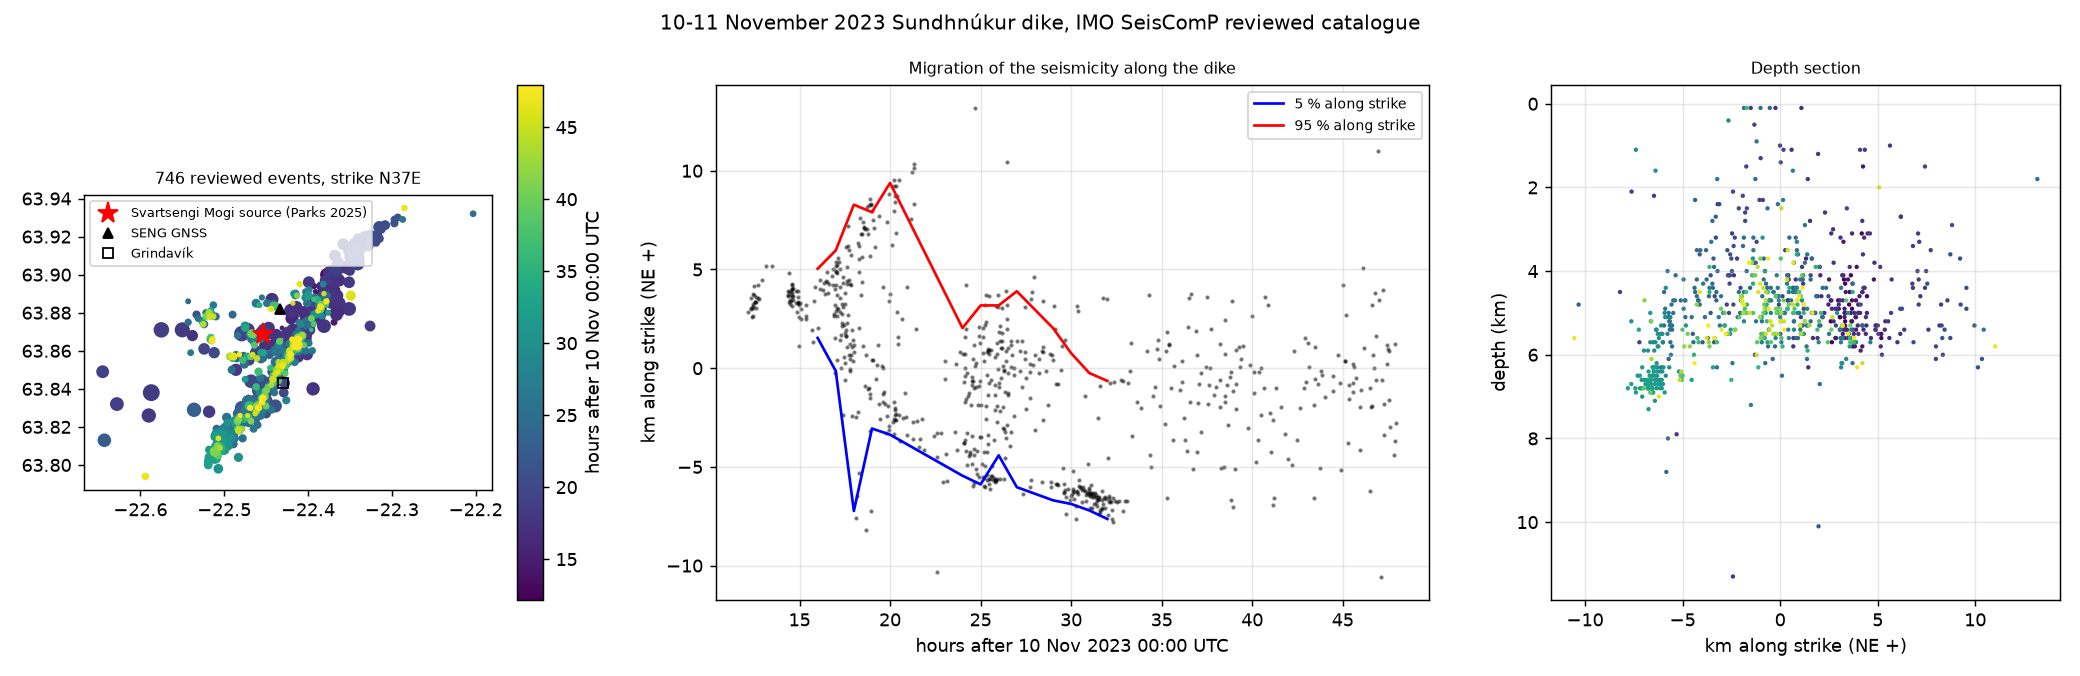
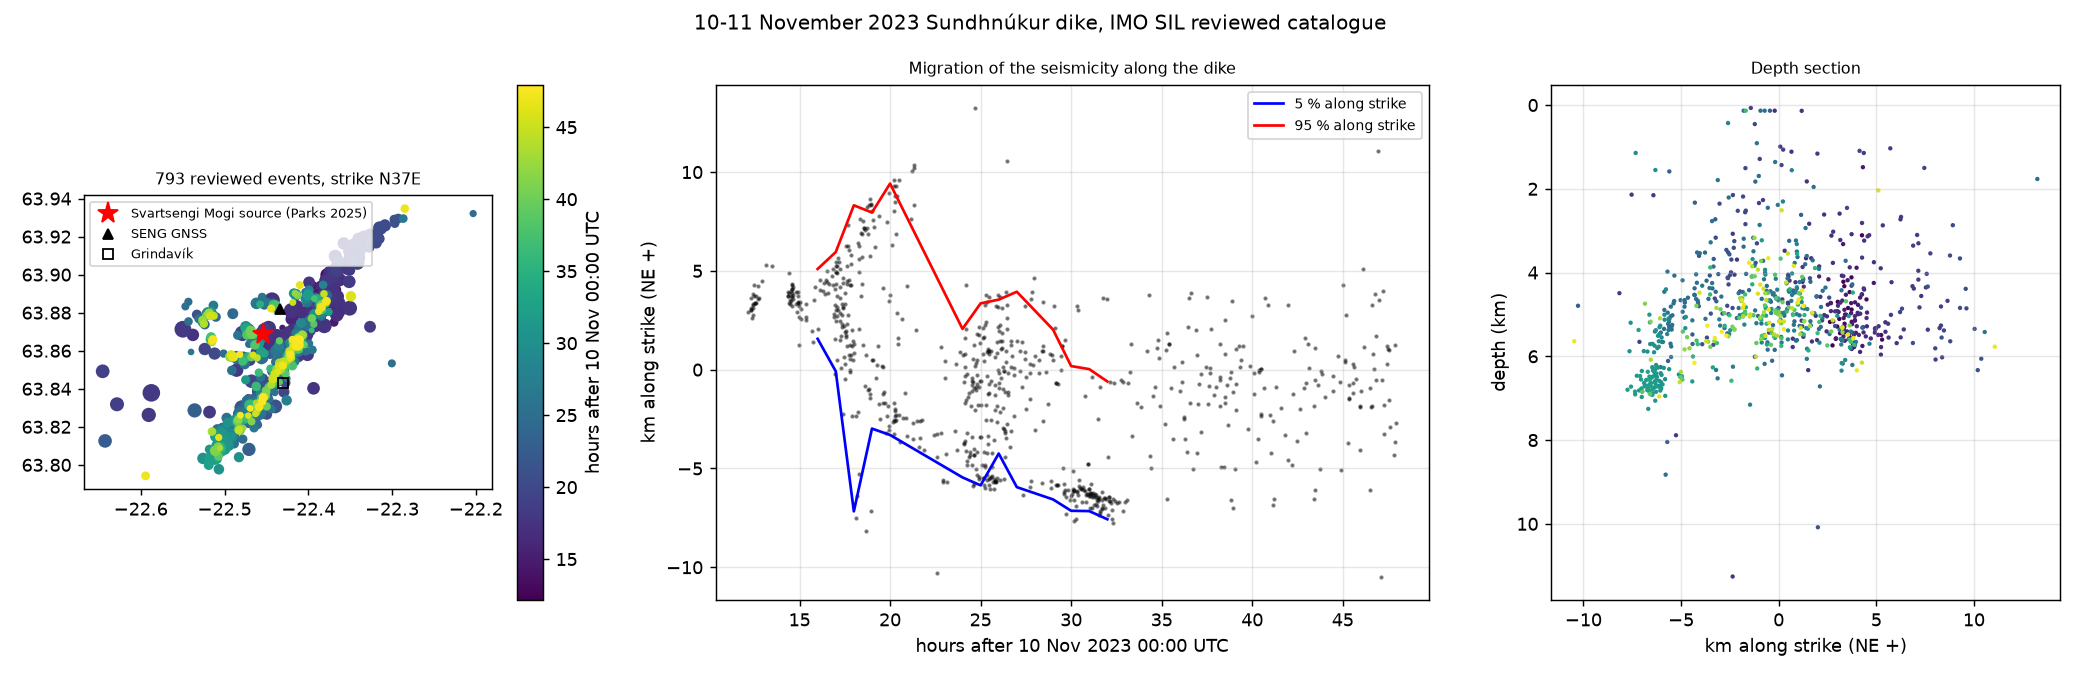
Use SeisComP for 2023-2026 and SIL for the 2023 dike; compare the two magnitude scales

diff --git a/scripts/reykjanes_seismicity.py b/scripts/reykjanes_seismicity.py
@@ -37,8 +37,9 @@ def inbox(df, b):
     return df[(df.longitude >= b[0]) & (df.longitude <= b[2]) & (df.latitude >= b[1]) & (df.latitude <= b[3])]
 
 
-def load(path):
-    d = pd.read_csv(path)
+def load(paths):
+    d = pd.concat([pd.read_csv(p) for p in paths], ignore_index=True).drop_duplicates("event_id")
+    path = "+".join(Path(p).name for p in paths)
     d["time"] = pd.to_datetime(d["time"], utc=True, format="ISO8601").dt.tz_localize(None)
     n0 = len(d)
     d = d[d.evaluation_mode == "manual"]
@@ -49,6 +50,24 @@ def load(path):
     return d
 
 
+def compare_systems(sil, sc, tol_s=3.0, tol_km=3.0):
+    """Match SIL and SeisComP reviewed events in their common period; counts per month and magnitude offset."""
+    t0, t1 = max(sil.time.min(), sc.time.min()), min(sil.time.max(), sc.time.max())
+    a = sil[(sil.time >= t0) & (sil.time <= t1)].sort_values("time").reset_index(drop=True)
+    b = sc[(sc.time >= t0) & (sc.time <= t1)].sort_values("time").reset_index(drop=True)
+    m = pd.merge_asof(b, a[["time", "latitude", "longitude", "magnitude"]].rename(
+        columns={"latitude": "lat_sil", "longitude": "lon_sil", "magnitude": "m_sil"}).assign(t_sil=lambda d: d.time),
+        on="time", direction="nearest", tolerance=pd.Timedelta(seconds=tol_s))
+    m = m.dropna(subset=["m_sil"])
+    m = m[sl.haversine_km(m.latitude, m.longitude, m.lat_sil, m.lon_sil) <= tol_km]
+    dm = m.magnitude - m.m_sil
+    out = dict(period=f"{t0.date()}..{t1.date()}", n_sil=len(a), n_seiscomp=len(b), n_matched=len(m),
+               dm_median=float(dm.median()), dm_iqr=[float(dm.quantile(.25)), float(dm.quantile(.75))],
+               dm_median_m_ge_1=float(dm[m.m_sil >= 1].median()))
+    print("SIL vs SeisComP:", out)
+    (DATA / "sil_vs_seiscomp.json").write_text(json.dumps(out, indent=1))
+
+
 def stats_block(name, m_timeordered, dm=0.1, rng=0):
     m = np.asarray(m_timeordered)
     out = dict(set=name, n_all=int(m.size))
@@ -57,7 +76,10 @@ def stats_block(name, m_timeordered, dm=0.1, rng=0):
     maxc = sl.mc_maxc(m, dm, 0.2)
     gft, r = sl.mc_gft(m, dm)
     mbs = sl.mc_mbs(m, dm)
-    mc = float(np.nanmax([maxc, gft, mbs]))  # conservative choice
+    # conservative of MAXC+0.2 and GFT; MBS is reported but not used when it rests on < 200 events
+    mc = float(np.nanmax([maxc, gft]))
+    if np.isfinite(mbs) and (sl.bin_mag(m) >= mbs - dm / 2).sum() >= 200:
+        mc = max(mc, float(mbs))
     b, sb, n, a = sl.b_aki(m, mc, dm)
     bb = sl.b_bootstrap(m, mc, dm, 500, rng)
     bp, sbp, nbp = sl.b_positive(m, dm, 0.2)
@@ -68,16 +90,22 @@ def stats_block(name, m_timeordered, dm=0.1, rng=0):
 
 def main():
     ap = argparse.ArgumentParser()
-    ap.add_argument("--catalog", required=True)
-    ap.add_argument("--label", default="IMO SIL")
+    ap.add_argument("--catalog", required=True, nargs="+", help="one or more CSVs (deduplicated by event_id)")
+    ap.add_argument("--label", default="IMO SeisComP")
+    ap.add_argument("--sil", nargs="*", default=[],
+                    help="IMO SIL CSVs: used for the Nov 2023 dike, 2020-2023 and a SIL-vs-SeisComP check")
     a = ap.parse_args()
     cat = load(a.catalog)
+    sil = load(a.sil) if a.sil else cat
+    sil_label = "IMO SIL" if a.sil else a.label
+    if a.sil:
+        compare_systems(sil, cat)
     ev = load_events()
     sv = inbox(cat, SVARTSENGI_BOX).reset_index(drop=True)
 
     # ------------------------------------------------------------------ 1. dike of 10 Nov 2023
     t0, t1 = pd.Timestamp("2023-11-10 12:00"), pd.Timestamp("2023-11-12 00:00")
-    dk = inbox(cat, (-22.65, 63.75, -22.20, 63.95))
+    dk = inbox(sil, (-22.65, 63.75, -22.20, 63.95))
     dk = dk[(dk.time >= t0) & (dk.time < t1)].reset_index(drop=True)
     x, y = to_local_km(dk.longitude, dk.latitude, PARKS_SOURCE["lon"], PARKS_SOURCE["lat"])
     xy = np.c_[x, y]
@@ -138,7 +166,7 @@ def main():
     axs[2].set_ylabel("depth (km)")
     axs[2].set_title("Depth section", fontsize=9)
     axs[2].grid(alpha=.3)
-    fig.suptitle(f"10-11 November 2023 Sundhnúkur dike, {a.label} reviewed catalogue", fontsize=11)
+    fig.suptitle(f"10-11 November 2023 Sundhnúkur dike, {sil_label} reviewed catalogue", fontsize=11)
     fig.tight_layout()
     fig.savefig(IMG / "dike_2023-11-10.png", dpi=130)
 
@@ -155,7 +183,7 @@ def main():
     for i in range(len(ev) - 1 + 1):
         e = ev.iloc[i]
         start = (e.end if e.end > e.start else e.start) + pd.Timedelta(days=2)
-        end = ev.iloc[i + 1].start - pd.Timedelta(days=1) if i + 1 < len(ev) else daily.index.max()
+        end = ev.iloc[i + 1].start - pd.Timedelta(days=1) if i + 1 < len(ev) else min(daily.index.max(), vol.index.max())
         if end <= start:
             continue
         nd = (end - start).days
@@ -208,13 +236,13 @@ def main():
     # ------------------------------------------------------------------ 3. Mc / b-value table
     he = inbox(cat, HENGILL_BOX)
     sets = [
-        ("Dike swarm 10-11 Nov 2023", dk.magnitude.values),
-        ("Svartsengi box, inter-event 2023-12-22..2025-07-15",
+        (f"Dike swarm 10-11 Nov 2023 ({sil_label})", dk.magnitude.values),
+        ("Svartsengi box, inter-event 2023-12-22..2025-07-15 (SeisComP)",
          sv[(sv.time >= "2023-12-22") & (sv.time < "2025-07-16")].magnitude.values),
-        ("Svartsengi box, current cycle 2025-08-06..", sv[sv.time >= "2025-08-06"].magnitude.values),
-        ("Svartsengi box, 2020-01-01..2023-10-24 (pre-dike unrest)",
-         sv[(sv.time >= "2020-01-01") & (sv.time < "2023-10-25")].magnitude.values),
-        ("Hengill box, whole catalogue", he.magnitude.values),
+        ("Svartsengi box, current cycle 2025-08-06.. (SeisComP)", sv[sv.time >= "2025-08-06"].magnitude.values),
+        (f"Svartsengi box, 2020-01..2023-10-24 ({sil_label})",
+         inbox(sil, SVARTSENGI_BOX).query("time >= '2020-01-01' and time < '2023-10-25'").magnitude.values),
+        ("Hengill box 2023-10..2026-11 (SeisComP)", he.magnitude.values),
     ]
     tab = pd.DataFrame([stats_block(n, m) for n, m in sets])
     tab.round(3).to_csv(DATA / "bvalue_table.csv", index=False)
@@ -241,7 +269,8 @@ def main():
 
     # ------------------------------------------------------------------ map
     fig, ax = plt.subplots(figsize=(11, 6))
-    rk = inbox(cat, (-22.9, 63.75, -21.0, 64.2))
+    rk = pd.concat([inbox(sil, (-22.9, 63.75, -21.0, 64.2)).query("time < '2023-10-01'"),
+                    inbox(cat, (-22.9, 63.75, -21.0, 64.2))])
     rk = rk[rk.time >= "2020-01-01"]
     yr = rk.time.dt.year + rk.time.dt.day_of_year / 366
     sc = ax.scatter(rk.longitude, rk.latitude, c=yr, s=0.3 + 0.6 * np.clip(rk.magnitude, 0, 5) ** 2, cmap="turbo",
@@ -251,7 +280,7 @@ def main():
         ax.text(b[0], b[3] + 0.005, nm, fontsize=8)
     ax.set_aspect(1 / np.cos(np.radians(64)))
     plt.colorbar(sc, label="year")
-    ax.set_title(f"Reviewed earthquakes 2020-2026, {a.label} ({len(rk)} events)")
+    ax.set_title(f"Reviewed earthquakes 2020-2026 ({len(rk)} events; SIL to Sep 2023, SeisComP after)")
     fig.tight_layout()
     fig.savefig(IMG / "seismicity_map.png", dpi=130)
 

diff --git a/docs/method.md b/docs/method.md
@@ -1,0 +1,130 @@
+# Method
+
+All inputs are free and need no account. Downloads go to `data/raw/<source>/` (git-ignored) and are only parsed as
+data (CSV, GeoTIFF, text). Every number in the README comes from a CSV in `docs/data/` written by a script below.
+
+| Script | Pilot | Input | Output |
+|---|---|---|---|
+| `scripts/fetch_imo_quakes.py` | B | IMO Quakes API (`api.vedur.is/quakes`, CC BY 4.0) | `data/raw/imo/*.csv` |
+| `scripts/licsar_annual.py` | C | COMET LiCSAR unwrapped interferograms (window reads over HTTP) | `data/raw/licsar/<frame>/` |
+| `scripts/ivwlib.py` | all | NGL `.tenv3` loader, offset cleaning, Mogi model, event list | |
+| `scripts/svartsengi_gnss.py` | A | NGL IGS20 daily GNSS | Mogi fits, volume series, per-event and per-cycle volumes |
+| `scripts/reykjanes_seismicity.py` | B | IMO SeisComP + SIL catalogues | dike migration, rates, Mc and b-values |
+| `scripts/geothermal_deformation.py` | C | LiCSAR annual pairs, NGL HUSM/REYK | field subsidence rates, maps |
+| `scripts/prior_work_map.py` | | LiCSAR DEM crop | prior-work map |
+| `scripts/seislib.py` | B | copied unchanged from the sibling `seismo-lab` project | |
+
+```bash
+uv venv --python 3.12 .venv && uv pip install --python .venv/bin/python -r requirements.txt
+mkdir -p data/raw/ngl && for s in SENG AUSV GEVK VOGC NYLA HUSM REYK; do
+  curl -sS -o data/raw/ngl/$s.tenv3 https://geodesy.unr.edu/gps_timeseries/IGS20/tenv3/IGS20/$s.tenv3; done
+.venv/bin/python -I scripts/fetch_imo_quakes.py --system seiscomp --mode all --start 2023-10-01 --end 2026-11-12 \
+    --bbox -22.9 63.70 -21.0 64.20 --out data/raw/imo/seiscomp_reykjanes_hengill_2023_2026.csv
+.venv/bin/python -I scripts/fetch_imo_quakes.py --system sil --start 2020-01-01 --end 2026-11-12 \
+    --bbox -22.9 63.70 -21.0 64.20 --out data/raw/imo/sil_reykjanes_hengill_2020_2026.csv
+for f in 016A_02504_162118 155D_02484_191814; do .venv/bin/python -I scripts/licsar_annual.py --frame $f \
+    --bbox -22.75 63.80 -21.10 64.16 --years 2015-2025 --per-year 3 --out data/raw/licsar/$f; done
+.venv/bin/python -I scripts/svartsengi_gnss.py
+.venv/bin/python -I scripts/reykjanes_seismicity.py --catalog data/raw/imo/seiscomp_reykjanes_hengill_2023_2026.csv \
+    --sil data/raw/imo/sil_reykjanes_hengill_2020_2026.csv
+.venv/bin/python -I scripts/geothermal_deformation.py
+.venv/bin/python -I scripts/prior_work_map.py
+```
+
+## Pilot A: Svartsengi magma domain from GNSS
+
+**Data.** Nevada Geodetic Laboratory (NGL) daily positions in IGS20, stations SENG (Svartsengi, 2015-), AUSV
+(Grindavík, Nov 2023-), GEVK (Apr 2024-), VOGC (Sep 2024-) and NYLA (2006-), all to 17 Oct 2026. IMO's own
+stations THOB, SKSH and ELDC are not in the NGL holdings.
+
+**Cleaning.** NGL leaves SENG with two vertical-only jumps that are not in its `steps.txt`: −473 mm on 2024-09-05
+and +513 mm on 2025-08-19. Neither has any horizontal motion (< 25 mm), any nearby station moving, or a dike at
+that time, and they nearly cancel, which points to wrong antenna-height metadata between those dates. They are
+detected automatically (5-day medians either side) and removed. The detector ignores ±3 days around dike onsets,
+because dikes move SENG by decimetres to metres. Gross outliers are > 5 robust σ from an 11-day running median.
+
+**Background.** SENG's 2015.5-2019.9 trend, before any unrest, is −16.4 mm/yr up (NYLA −5.5 mm/yr). That covers
+geothermal-field subsidence, regional subsidence and GIA together. It is removed from SENG's vertical as a
+constant term. Horizontal plate motion is absorbed by a common E/N translation in each fit.
+
+**Mogi fits.** For four inflation-only intervals (no dike between the end dates), 5-day mean displacements are fitted
+with a Mogi point source in an elastic half-space (ν = 0.25). The source position (0.004° × 0.002° grid) and depth
+(1.5-8 km, 0.25 km step) are found by grid search; ΔV and the translation are solved by linear least squares.
+Errors are 3 mm horizontal and 8 mm vertical, plus 5 % of the signal as model error. The depth range is where
+χ² ≤ χ²_min + scale (scale = χ²_min/dof when > 1). The jackknife drops one station at a time.
+
+![Mogi fits](img/mogi_fits.png)
+
+**Volume series.** With the source fixed (median of the four fits: −22.446 E, 63.872 N, 3.75 km), the SENG
+vertical becomes a volume series: ΔV = u_z / G_z, with G_z = 14.4 mm per Mm³. With Parks et al.'s source
+(−22.454 E, 63.869 N, 4 km), G_z = 11.4 mm per Mm³, so volumes are 26 % larger. Per event, the volume lost runs
+from the day before onset to the minimum within 7 days. Per cycle, the recharge runs from that minimum to the day
+before the next event.
+
+![SENG volume series](img/seng_volume_timeseries.png)
+
+**Limitations (A).**
+- One station (SENG) drives the volume series. Where a dike passes close to SENG, the dike's own deformation
+  contaminates its vertical. Events 1 (10 Nov 2023), 2, 3, 5 and 10 (1 Apr 2025, ~20 km dike) are badly
+  underestimated or have the wrong sign. The series is valid for inflation, and for losses at events whose
+  dike stayed away from SENG (4, 6, 7, 8, 9, 11).
+- Volumes depend on the source geometry: ±26 % between our source and Parks et al.'s. SENG sits 1.8 km from the
+  source, so G_z is very sensitive to depth.
+- I4 (Aug 2025 to Oct 2026, 429 days) fits badly (RMS 49 mm). One point source cannot match SENG's +394 mm uplift
+  together with the Grindavík stations. Possible causes: a change in source shape, post-dike motion inside the
+  Grindavík graben, or a SENG-specific signal. Not resolved.
+- Depth is poorly constrained by 4-5 stations (jackknife 2.5-5.0 km). The InSAR in Pilot C was not used for
+  Mogi fits.
+- Formal velocity errors assume white noise and are too small (coloured noise not modelled).
+
+## Pilot B: seismicity
+
+**Catalogues.** The IMO Quakes API serves two systems. **SeisComP** (primary since Feb 2026, reviewed events
+back to Oct 2023, magnitude type `ML_SIL`) is the only continuous catalogue through the current cycle. **SIL**
+(legacy) has reviewed events until early Feb 2026 and is much denser during the Nov 2023 dike. We use SeisComP
+for everything from Oct 2023 on (rates, b-values per cycle), and SIL for the 10 Nov 2023 dike and for 2020-2023.
+Only reviewed (`manual`) events of type earthquake (or no type) are used.
+
+**Dike geometry.** Epicentres from 10 Nov 12:00 to 12 Nov 00:00 UTC. The strike is the principal axis of the
+epicentres. Length is the 2.5-97.5 % range along strike. The front is the 5 % and 95 % along-strike quantiles
+in hourly bins with ≥ 20 events.
+
+**Rates vs inflation.** One Mc is used for all inter-event periods: the larger of the inter-event (Dec 2023 to
+Jul 2025) and current-cycle Mc. Daily counts M ≥ Mc are compared with the Pilot A volume series, and with Spearman
+rank correlations over the inter-event periods.
+
+**Mc and b.** Mc is the most conservative of MAXC+0.2, goodness-of-fit (90/95 %) and b-value stability. b uses
+Aki-Utsu with Shi-Bolt error and 500 bootstraps, plus b-positive (van der Elst 2021, ΔM ≥ 0.2), which is robust to
+short-term incompleteness.
+
+**Limitations (B).** Magnitudes are local (`ML_SIL`), not Mw. The network changed during the sequence (stations
+added around Grindavík), so Mc varies in time. A single Mc per period is a simplification. Aki-Utsu b and
+b-positive disagree in some sets (see README), which is itself a sign of time-varying completeness.
+
+## Pilot C: geothermal fields
+
+**InSAR.** LiCSAR frames 016A_02504_162118 (ascending) and 155D_02484_191814 (descending) both cover the whole
+peninsula window. We use only summer-to-summer pairs: both dates in June-September, 330-400 days apart, up to 3
+per year with distinct primaries. Winter pairs decorrelate under snow. Pixels with coherence < 0.25 are masked.
+Each pair is scaled to mm/yr and the yearly median is taken. Field rates are the 5th percentile (3×3 smoothed)
+within 1.5 km of the field centre, minus the median of a 4-7 km ring. The ring removes the plate-spreading
+gradient, which is clearly visible: ascending and descending maps have opposite-sign east-west gradients.
+Ascending and descending pre-unrest median maps are combined into vertical and east (north ignored).
+
+**LiCSAR availability.** 6 ascending pairs (2020-2022 primaries) and 9 descending pairs (2019-2021 primaries) are
+listed in the LiCSAR index but return HTTP 403/404. The descending vertical decomposition is therefore only
+possible for primaries 2015, 2017 and 2018 (pre-unrest).
+
+**GNSS.** HUSM (Húsmúli re-injection area) relative to REYK, with an annual term and an offset at the 2017-02-09
+equipment change from NGL's steps file (the 2016-07-26 change has no data after it and before the next one).
+
+![Geothermal maps](img/geothermal_velocity_maps.png)
+![Yearly rates](img/geothermal_yearly_rates.png)
+
+**Limitations (C).**
+- LiCSAR has ~100 m pixels and contains unwrapping errors (visible as patches in the descending map). The yearly
+  median of three pairs helps but does not remove them all. Peaks are smoothed compared with 3 m TerraSAR-X.
+- The ring reference assumes no deformation 4-7 km from the field centre. That is not true at Svartsengi after
+  2020 (magmatic) or at Hengill if the bowl is wider than 4 km.
+- Field centres are approximate plant/well-field locations, not production-weighted.
+- Svartsengi geothermal vs magmatic: see README §C.
